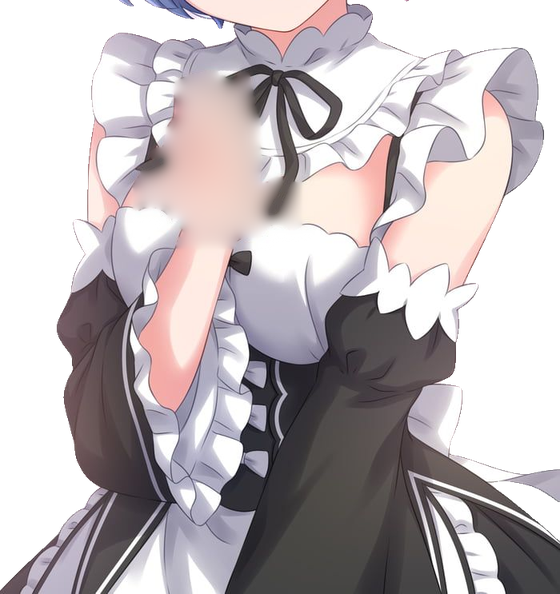
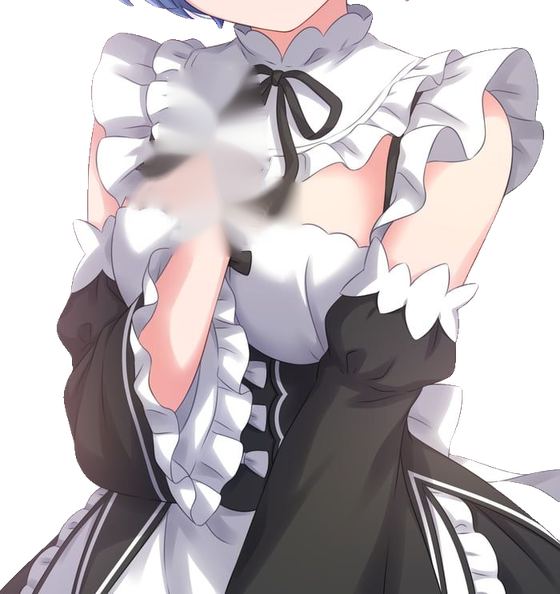
fix(dokumentasi): perbaiki crop tangan Rem dan model kedip mata
Lapisan tangan sebelumnya ikut membawa ruffle gaun putih di sisi bawah, sehingga saat tangan berputar bagian tubuh itu ikut tertarik. Alpha tangan sekarang dibatasi ke area tangan saja dan area tersebut di-inpaint pada lapisan badan, jadi ruffle tetap diam di badan.

Kedip mata sekarang memakai scaleY dari tepi atas kelopak (transform-origin 50% 0) dengan 9 langkah per kedip, sehingga garis bulu mata turun sampai dasar mata alih-alih memudar di tengah.

Changed region(s): [[0.2429, 0.0909, 0.5161, 0.4545], [0.3036, 0.3636, 0.3643, 0.4242], [0.2125, 0.303, 0.2429, 0.3636]]

diff --git a/app/globals.css b/app/globals.css
@@ -350,29 +350,80 @@ html[data-theme='dark'] {
   }
 }
 /* Kedip: dua kali berdekatan lalu jeda panjang, meniru ritme mata asli.
-   Siklus 8.4s; tiap kedip menutup ~220ms dengan transisi ~135ms di kedua
-   sisinya, jadi totalnya ~490ms — durasi kedip manusia, bukan kedipan
-   refleks yang terasa seperti gambar berkedip. */
+   Siklus 8.4s, tiap kedip ~470ms (tutup ~100ms, tahan ~70ms, buka ~150ms).
+
+   Aset kelopak (rem-eyes.png) adalah satu gambar mata terpejam dengan garis
+   bulu mata di tengahnya. Supaya garis itu turun ke dasar mata seperti
+   kelopak yang benar-benar menutup, lapisan ini direntangkan ke bawah
+   (scaleY 0.85 -> 1.45, poros di tepi atas) sambil di-fade masuk. Jadi
+   garis bulu mata bergerak dari ~36% ke ~105% tinggi mata, bukan muncul
+   mendadak di tengah. Sembilan langkah per kedip supaya geraknya terbaca
+   sebagai kelopak turun, bukan gambar yang berkedip. */
 @keyframes rem-blink {
   0%,
-  25% {
+  25.4% {
     opacity: 0;
+    transform: scaleY(0.85);
   }
-  26.6%,
-  29.2% {
+  26.1% {
+    opacity: 0.45;
+    transform: scaleY(1);
+  }
+  26.8% {
+    opacity: 0.85;
+    transform: scaleY(1.2);
+  }
+  27.5%,
+  28.3% {
     opacity: 1;
+    transform: scaleY(1.45);
   }
-  30.8%,
-  76% {
+  29% {
+    opacity: 0.85;
+    transform: scaleY(1.26);
+  }
+  29.7% {
+    opacity: 0.55;
+    transform: scaleY(1.08);
+  }
+  30.4% {
+    opacity: 0.2;
+    transform: scaleY(0.94);
+  }
+  31.1%,
+  76.4% {
     opacity: 0;
+    transform: scaleY(0.85);
   }
-  77.6%,
-  80.2% {
+  77.1% {
+    opacity: 0.45;
+    transform: scaleY(1);
+  }
+  77.8% {
+    opacity: 0.85;
+    transform: scaleY(1.2);
+  }
+  78.5%,
+  79.3% {
     opacity: 1;
+    transform: scaleY(1.45);
   }
-  81.8%,
+  80% {
+    opacity: 0.85;
+    transform: scaleY(1.26);
+  }
+  80.7% {
+    opacity: 0.55;
+    transform: scaleY(1.08);
+  }
+  81.4% {
+    opacity: 0.2;
+    transform: scaleY(0.94);
+  }
+  82.1%,
   100% {
     opacity: 0;
+    transform: scaleY(0.85);
   }
 }
 @layer components {
@@ -389,8 +440,10 @@ html[data-theme='dark'] {
   }
   .rem-blink {
     /* opacity dasar 0 supaya lapisan kelopak tidak pernah menutup mata saat
-       animasinya dimatikan (prefers-reduced-motion) atau belum mulai. */
+       animasinya dimatikan (prefers-reduced-motion) atau belum mulai.
+       Poros di tepi atas: kelopak memanjang ke bawah, bukan ke dua arah. */
     opacity: 0;
+    transform-origin: 50% 0;
     animation: rem-blink 8.4s linear infinite;
   }
 }

diff --git a/components/dokumentasi/karakter.tsx b/components/dokumentasi/karakter.tsx
@@ -30,9 +30,11 @@ const NECK_Y = 429;
 // Poros putar tangan: titik tangkup di depan dada.
 const HANDS_X = 250;
 const HANDS_Y = 560;
-// Lapisan kelopak mata: potongan kecil di dalam kanvas kepala.
+// Lapisan kelopak mata: potongan kecil di dalam kanvas kepala. Nilai Y
+// menempatkan garis bulu mata aset tepat di dasar bola mata (baris 248-290
+// pada kepala) setelah lapisan ini direntangkan oleh animasi rem-blink.
 const EYES_X = 268;
-const EYES_Y = 226;
+const EYES_Y = 238;
 const EYES_W = 90;
 const EYES_H = 74;
 
